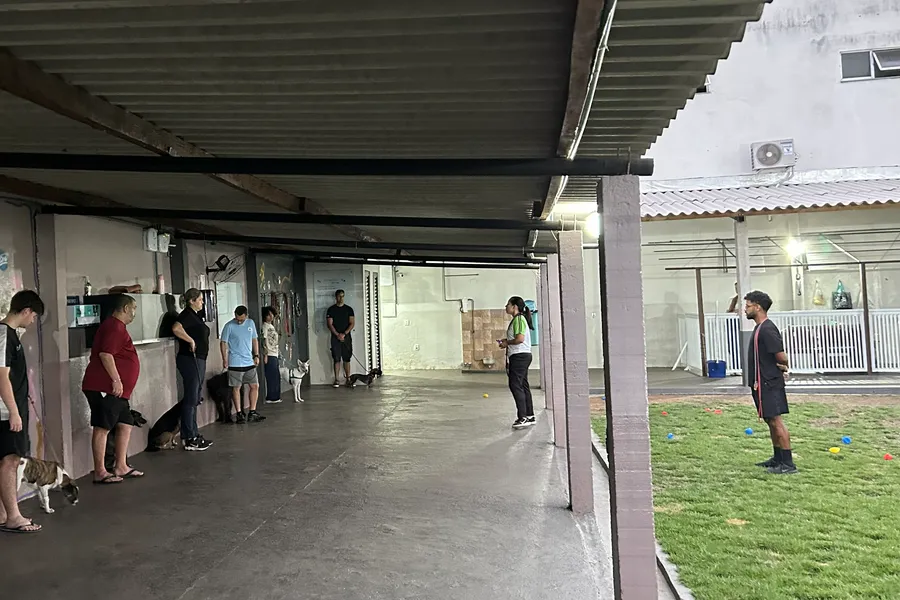
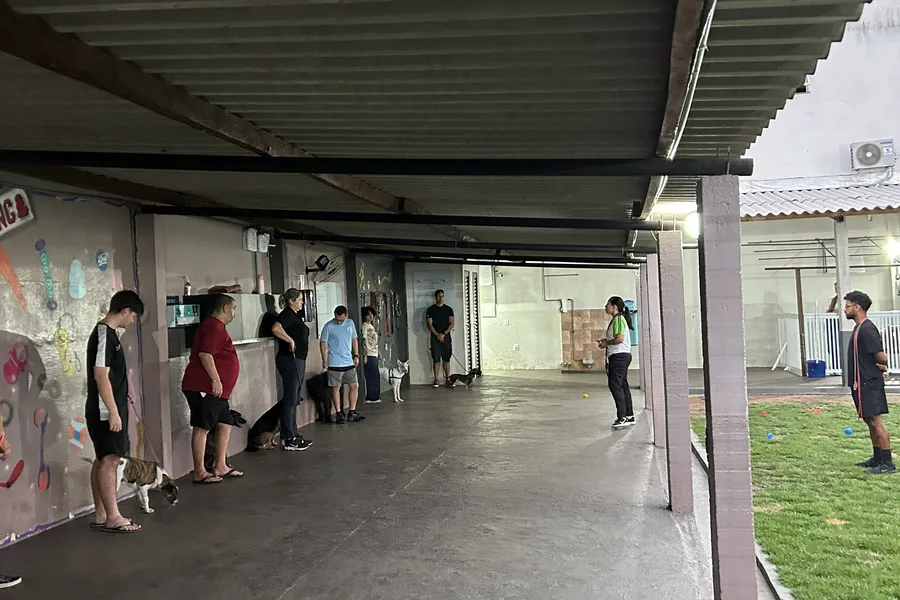
feat(hero): replace armchair image with cape and update hero photo details
- Removed the armchair image and added a new cape image for the hero section, enhancing visual appeal.
- Updated the hero photo details to reflect the new image and its description.
- Made minor adjustments to existing service images to ensure consistency across the home page.

diff --git a/lib/home/hero.ts b/lib/home/hero.ts
@@ -1,5 +1,5 @@
 import type { StaticImageData } from 'next/image';
-import orbitArmchair from '@/assets/photos/home/hero-orbit-armchair.webp';
+import orbitCape from '@/assets/photos/home/hero-orbit-cape.webp';
 import orbitBeeCostume from '@/assets/photos/home/hero-orbit-bee-costume.webp';
 import orbitYardTrio from '@/assets/photos/home/hero-orbit-yard-trio.webp';
 import silviaAndBacon from '@/assets/photos/home/hero-silvia-and-bacon.webp';
@@ -27,8 +27,8 @@ export const heroPortrait: HomePhoto = {
  */
 export const heroOrbitPhotos: readonly HomePhoto[] = [
   {
-    src: orbitArmchair,
-    alt: 'Um shih-tzu de língua de fora, sentado numa poltroninha rosa de unicórnios.',
+    src: orbitCape,
+    alt: 'Um spitz caramelo fantasiado com capa preta e gola vermelha, sentado na área coberta da creche.',
   },
   {
     src: orbitBeeCostume,
